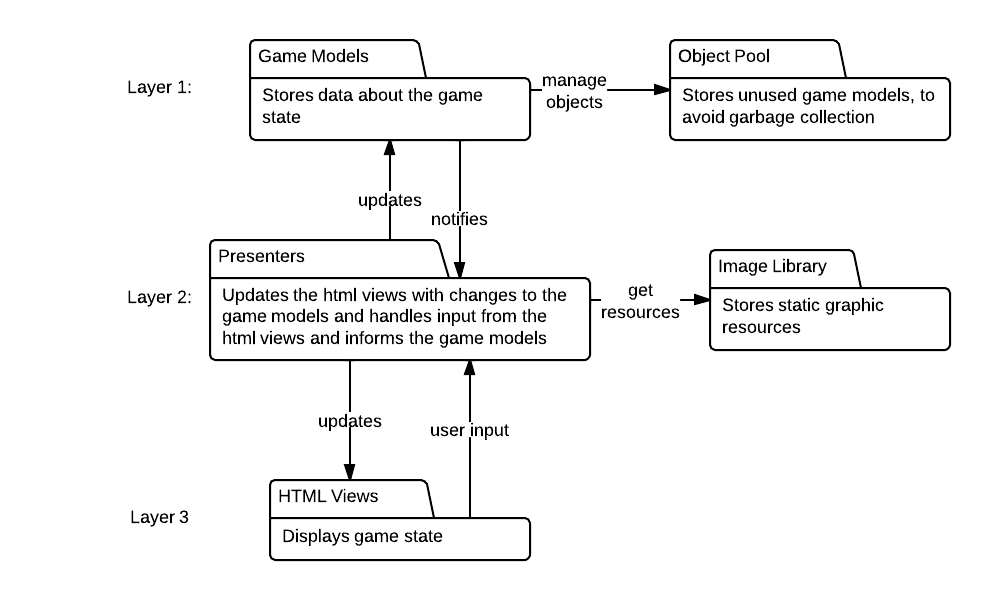
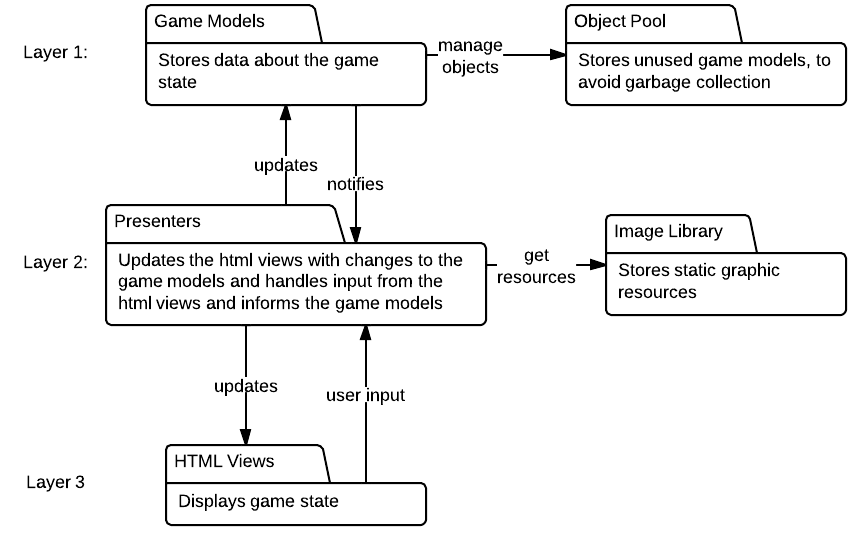
Fixes on chapter 6

Changed region(s): [[0.0304, 0.0, 1.0, 0.9869], [0.0304, 0.0897, 0.1218, 0.1196], [0.0304, 0.8972, 0.0913, 0.9271]]

diff --git a/architecture/drivers.tex b/architecture/drivers.tex
@@ -13,5 +13,5 @@ which fits the language is going to be important.
 
 \subsection*{Projected Lifetime}
 The customer have to be able to continue to provide support for the game, which means that there is 
-no end-time for the project from the customers point of view while the course ends November 21. 
-This means that the product has to be easy to maintain after the end of the course.
+no end-time for the project from the customers point of view while the course ends at November 21. 
+This means that the product needs to be easy to maintain after the end of the course.

diff --git a/references.tex b/references.tex
@@ -174,7 +174,7 @@
 	Date: 02.10.13
 
 \bibitem{estimation}
-	Agile Q&A – GreenHopper Time Estimates with Sub-Tasks \\
+	Agile Q\&A – GreenHopper Time Estimates with Sub-Tasks \\
 	\href{http://blogs.atlassian.com/2012/09/agile-qa-greenhopper-time-estimates-with-sub-tasks/} \\
 	Date: 28.10.13
 

diff --git a/architecture/views.tex b/architecture/views.tex
@@ -63,4 +63,4 @@
 	layer is the HTML code which handles the layout of the user interface and sends user input to the
 	second layer.
 
-	\includegraphics[width=\textwidth]{pictures/development_view}
+	\includegraphics[scale=0.5]{pictures/development_view}
